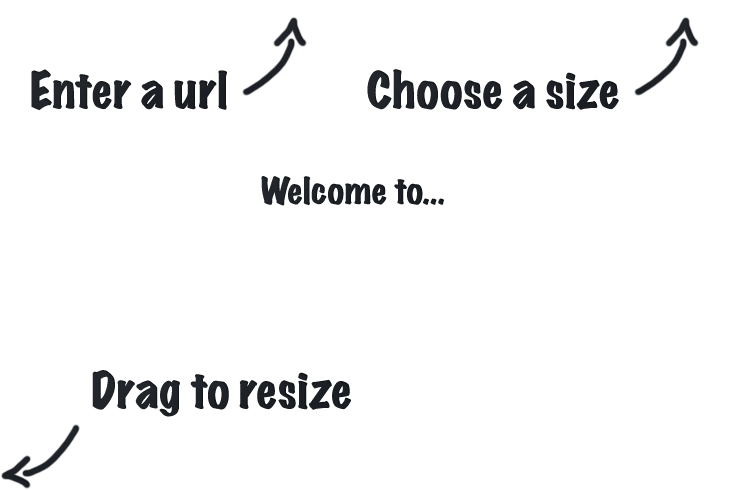
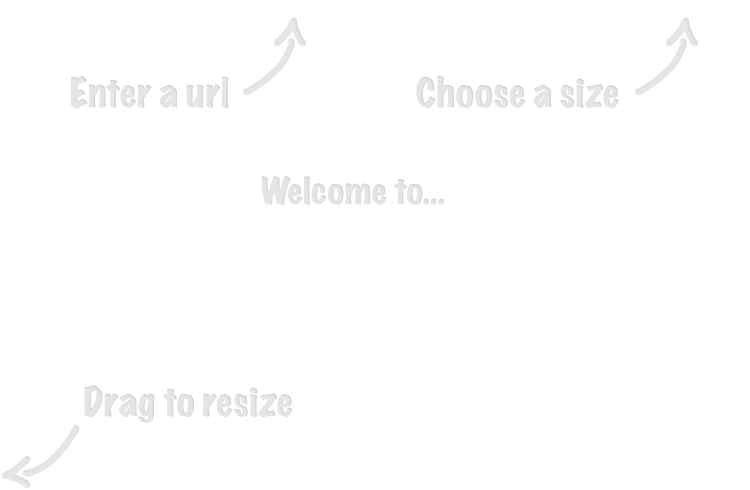
Rebrand design
- Tidy up styles

diff --git a/css/layout/header.less b/css/layout/header.less
@@ -6,7 +6,9 @@
 */
 
 .header {
+  #hl.drop-shadow(0, 1px, 0, #fff);
   background: @color1;
+  border-bottom: 1px solid #ddd;
   margin-bottom: 20px;
   .container {
     .column(12);
@@ -23,14 +25,14 @@
       font-size: 45px;
       letter-spacing: -2px;
       line-height: 40px;
-      margin: 10px 0 0;
+      margin: 14px 0 0;
     }
     > section {
       position: relative;
       #controls {
         display: inline-block;
         float: right;
-        margin-top: 14px;
+        margin-top: 10px;
         text-align: right;
         vertical-align: top;
         width: 70%;
@@ -67,7 +69,7 @@
       border-right: 1px solid #fff;
       display: inline-block;
       float: right;
-      height: 65px;
+      height: 60px;
       margin: 0 9px;
       overflow: hidden;
       width: 1px;
@@ -78,7 +80,7 @@
       display: inline-block;
       float: right;
       height: 39px;
-      margin-top: 10px;
+      margin-top: 7px;
       text-decoration: none;
       text-indent: -9999px;
       vertical-align: top;

diff --git a/css/layout/main.less b/css/layout/main.less
@@ -12,7 +12,7 @@
   position: relative;
   .responsi-frame {
     background: white;
-    border: 1px solid #000;
+    border: 1px solid #ccc;
     height: 480px;
     position: relative;
     width: 320px;
@@ -38,14 +38,17 @@
       left: 0;
     }
     .ui-resizable-se {
-      border-top: 10px solid transparent;
-      border-bottom: 10px solid black; 
-      border-left:10px solid transparent;
+      border-top: 15px solid transparent;
+      border-bottom: 15px solid #515151; 
+      border-left:15px solid transparent;
       bottom: 1px;
       cursor: se-resize;
       height: 0; 
       right: 1px;
       width: 0; 
+    }
+    &.ui-resizable-resizing {
+      #hl.drop-shadow(0, 0, 10px, #ccc);
     }
     .mask {
       display: none;
@@ -70,12 +73,12 @@
   }
   #logo {
     background: url(images/css/logo.jpg) no-repeat 0 0;
-    height: 164px;
+    height: 244px;
     left: 0;
     margin: 0 auto;
     position: absolute;
     right: 0;
     top: 180px;
-    width: 455px;
+    width: 660px;
   }
 }

diff --git a/css/components/colours.less b/css/components/colours.less
@@ -5,7 +5,7 @@
 *
 */
 
-@color1: #fafafa; // Light Grey
-@color2: #a36a6c; // Dark Red
+@color1: #fafafa; // Lighter Grey
+@color2: #f8f8f8; // Light Grey
 @color3: #272727; // Dark Grey
-@color4: #6f9fb4; // Main Blue
+@color4: #515151; // Main Blue

diff --git a/css/layout/document.less b/css/layout/document.less
@@ -9,7 +9,7 @@
 #hl.normalize();
 
 html, body {
-  background: #272727 url(images/css/bkg.jpg) repeat 0 0;
+  background: #f8f8f8;
   height: 100%;
   line-height: 1;
 }
